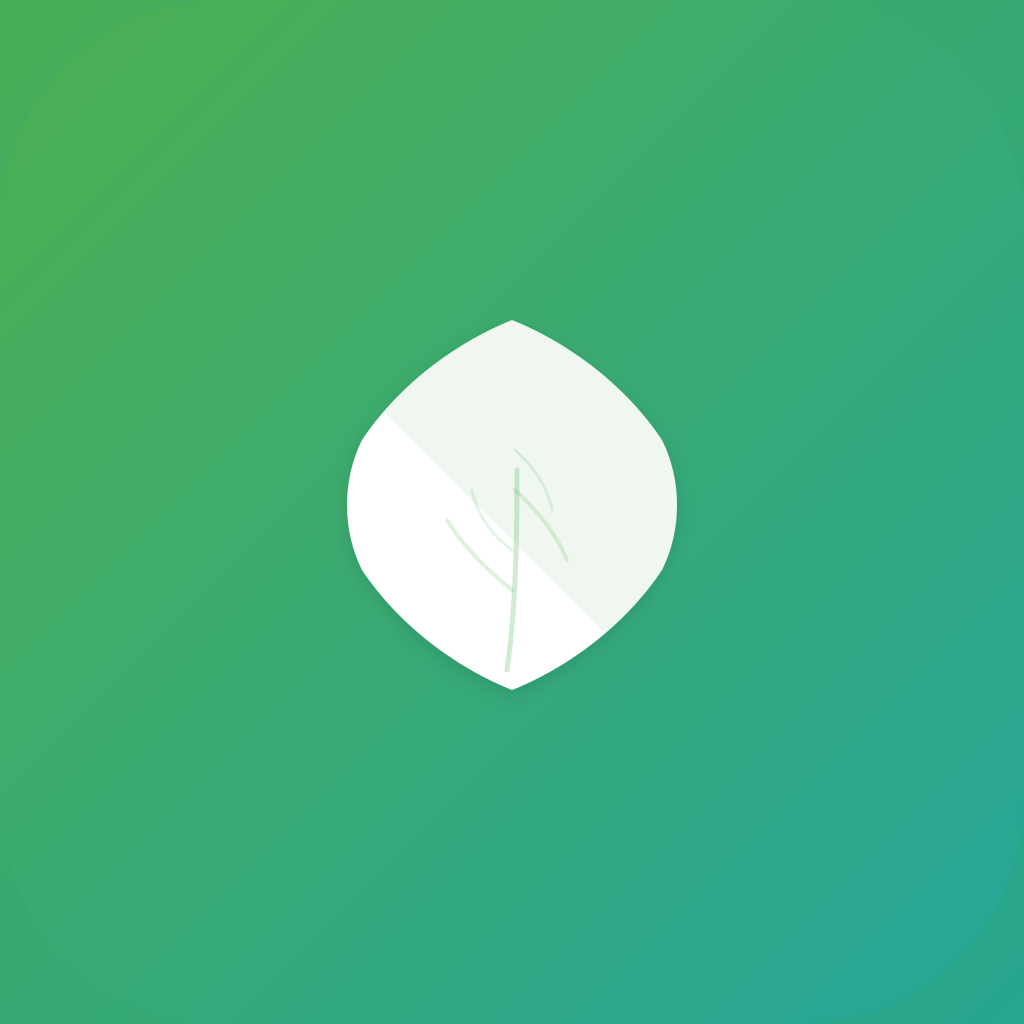
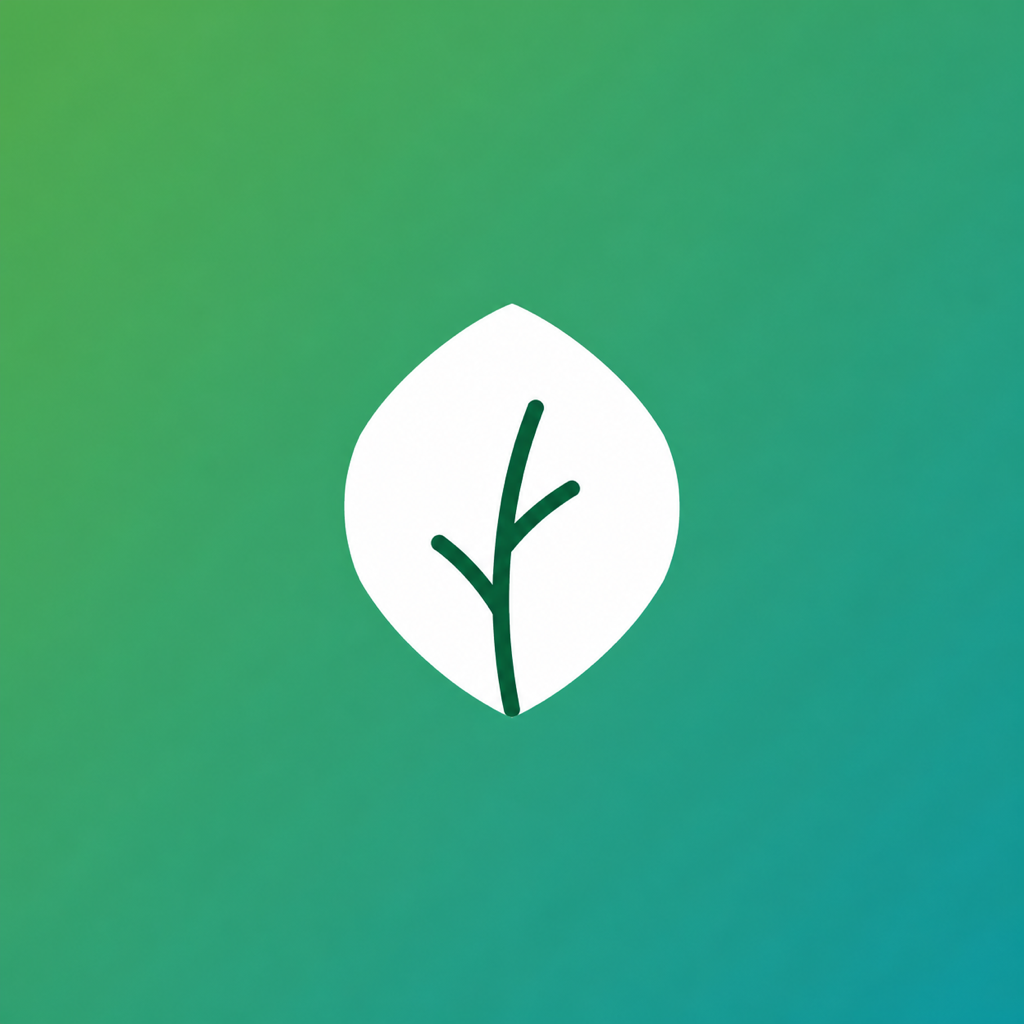
Add planned membership card and align official iOS branding

diff --git a/privacy/index.html b/privacy/index.html
@@ -16,12 +16,12 @@
 <link rel="alternate" hreflang="en" href="https://www.freshlifeapp.cn/en/privacy/"/>
 <link rel="alternate" hreflang="x-default" href="https://www.freshlifeapp.cn/privacy/"/>
 <!-- 浏览器、Safari 与主屏幕统一使用当前 FreshLife App 图标；新文件名也可避开旧 favicon 缓存。 -->
-<link rel="icon" type="image/png" sizes="64x64" href="/favicon-64.png"/>
-<link rel="icon" type="image/x-icon" href="/favicon.ico"/>
-<link rel="apple-touch-icon" sizes="180x180" href="/apple-touch-icon.png"/>
+<link rel="icon" type="image/png" href="/app-icon.png"/>
+
+<link rel="apple-touch-icon" href="/app-icon.png"/>
 <script>/* 主题初始化：先读用户选择，没有则跟随系统；在 CSS 之前执行避免闪动 */
 try{(function(){var d=document.documentElement;d.classList.add("js");var k="freshlife-theme";var saved=null;try{saved=localStorage.getItem(k)}catch(e){}var m=window.matchMedia("(prefers-color-scheme: dark)");var t=(saved==="light"||saved==="dark")?saved:(m.matches?"dark":"light");d.setAttribute("data-theme",t);window.__freshThemeSystem=m.matches?"dark":"light"})()}catch(e){}</script>
-<link rel="stylesheet" href="/assets/main-a55a62aa8b.css"/>
+<link rel="stylesheet" href="/assets/main-c586095d3d.css"/>
 </head>
 <body>
 
@@ -44,8 +44,25 @@ try{(function(){var d=document.documentElement;d.classList.add("js");var k="fres
     <article class="legal-page">
       <p class="kicker">隐私政策 · Privacy</p>
 <h1>隐私政策</h1>
-<p class="legal-note">请选择你使用的平台：<a href="#android">安卓 1.0.0</a> · <a href="#ios">iOS 1.0.0</a>。不同平台功能及数据处理范围不同。</p>
-<h2 id="android">安卓版 1.0.0 隐私政策</h2><h3>适用范围与运营者</h3><p>本政策适用于闵启航开发并提供的 FreshLife 安卓版 1.0.0（包名 cn.minqihang.freshlife）。本版本用于离线管理食材库存、购物清单和本地临期提醒，无注册登录、云同步、社区、付费会员、广告或在线 AI。更新及生效日期：2026年9月7日。</p><h3>本地处理的数据</h3><p>你主动录入的食材名称、数量、单位、存放位置、到期日、购物项和购买状态，以及提醒开关，仅保存在本机应用存储中，用于库存显示、临期计算、用量记录和购物入库。应用不申请联网权限，不向开发者或第三方服务器发送这些数据，不收集设备标识符、通讯录、位置、照片、麦克风或浏览记录。请勿在食材名称中填写身份证号等无关敏感信息。</p><h3>权限与系统能力</h3><p>通知权限仅在你点击“开启提醒”后申请，用于发送本地临期汇总。拒绝通知权限不影响库存与购物功能，你可随时在“我的”或系统设置中关闭。应用接收设备启动、时间与时区变化的系统广播，用于恢复已有提醒计划，不读取启动时其他应用的信息。提醒大约在本地时间上午9点送达，系统省电限制可能使其延迟。通知可能在锁屏显示食材统计，可在系统设置中控制展示方式。</p><h3>备份、恢复与删除</h3><p>导出时，应用通过系统文件选择器将库存和购物数据写入你指定的位置；恢复时，仅读取你主动选择的 FreshLife 安卓 JSON 备份。应用不申请读取全部文件的权限。若你选择第三方云盘保存，文件由你所选服务处理，其隐私政策另行适用。备份为可读文本，请妥善保管。“我的”中的“清除本地数据”会在确认后删除本机库存、购物记录并关闭提醒；也可逐条编辑或删除记录。卸载或系统清除应用数据会移除应用本地记录。你另行保存的备份不会自动删除，请在保存位置自行删除。本版本没有账号，因此无需账号注销。</p><h3>共享、安全与保存期限</h3><p>应用不嵌入广告、统计、支付或社交第三方 SDK，不出售、共享或向境外传输应用数据，不使用 Cookie 或跟踪技术。记录保留在设备中，直到你删除、清除数据或卸载；无开发者云端副本。系统应用沙箱限制其他应用访问，自动系统云备份与设备迁移备份已禁用。请保护设备解锁凭据，及时导出需要保留的记录。数据丢失后开发者无法从服务器找回。</p><h3 id="android-rights">你的权利与联系方式</h3><p>你可在应用中查看、更正、删除记录，导出或恢复备份，并撤回通知权限。关于隐私、数据处理或产品问题，请联系运营者闵启航：Minqihang0119@163.com。请提供问题说明及应用版本，避免发送身份证号、密码或不必要的库存内容。如你主动发邮件，邮件地址及你提供的内容将被用于处理咨询，邮件服务由相应服务商提供。本应用不会自动发送邮件。我们会在收到请求后15个工作日内回复处理情况。</p><h3>未成年人</h3><p>本应用面向日常家庭食材管理，不针对未成年人收集个人信息。不满14周岁的用户请在监护人指导下使用，避免录入无关个人信息。监护人可以协助查看、删除记录或联系我们。</p><h3>政策更新</h3><p>未来如增加联网、账号或其他改变数据处理方式的功能，将先更新政策并在应用内告知；需要另行同意或授权时会单独征求。你可随时在“我的”中离线查阅当前版本政策。本政策仅描述本版本已提供的能力。</p>
+<p class="legal-note">请选择你使用的平台：<a href="#android">安卓 1.0.1</a> · <a href="#ios">iOS 1.0.0</a>。不同平台功能及数据处理范围不同。</p>
+<h2 id="android">安卓版 1.0.1 隐私政策</h2>
+<p>适用版本：安卓 1.0.1。运营者：闵启航。更新及生效日期：2026年9月9日。</p>
+<h3>本地处理与用途</h3>
+<p>本版本为离线应用，不申请联网权限，无账号登录、云同步、社区、会员、广告、统计SDK或在线AI服务。你录入的库存、购物、操作历史、家庭设置、用量记忆、提醒设置仅保存在本机，用于库存管理、购物入库、临期提醒及基于已确认记录的用量估算。估算不自动扣除库存或下单，也不用于诊断或医疗建议。</p>
+<p><strong>家庭设置中自愿填写的过敏原属于健康相关敏感信息，只在本机保存，用于记录家庭饮食限制。非必填，不填不影响库存和购物功能；填写他人信息前应取得其同意。</strong>本版本不向开发者或第三方服务器上传业务数据。请勿填写身份证号等无关信息。</p>
+<h3>个人信息处理清单</h3>
+<p>库存与购物：食品名称、数量、单位、位置、日期和购买状态，用于库存与购物管理。操作记录：你确认的消耗、丢弃、购买、入库和修改，用于历史和用量估算。家庭设置：称呼、用餐状态、饮食限制、烹饪时间与设备，用于本地家庭记录。用量记忆：由已确认记录形成的观察及隐藏选择，可在“我的—本地用量记忆”查看和隐藏。提醒开关：用于发送本地临期汇总。上述内容由你主动录入或操作产生。</p>
+<h3>第三方共享清单</h3>
+<p>本版本无第三方广告、统计、支付、社交SDK，不主动向第三方共享个人信息。你主动导出备份时，文件交由系统文件选择器选定的存储服务保存；若选第三方云盘，其服务商按自己的政策处理文件。主动通过邮箱咨询时，你发送的内容由邮件服务商处理，用于处理咨询，应用不会自动发送邮件。</p>
+<h3>权限、提醒与安全</h3>
+<p>通知权限仅在点击“开启提醒”后申请，拒绝不影响其他功能；可在应用或系统设置关闭。接收开机、时间和时区变化广播，仅恢复你已开启的提醒，通常在本地上午9点发送临期汇总，省电限制可能造成延迟。锁屏显示可在系统设置控制。应用不读取通讯录、位置、广告标识、相机、麦克风或全部文件。系统自动云备份和迁移备份禁用。</p>
+<h3>备份、删除和保存期限</h3>
+<p>导出与恢复仅访问系统选择器中你选定的文件。备份为可读JSON，包含库存、购物、操作历史、家庭设置、用量记忆及恢复文件中已有的记录，请妥善保管。“我的”可导出备份、逐条修改或删除、清除本地数据；清除会关闭提醒。本机数据保留至你主动删除、系统清除应用数据或卸载，未备份的数据无法找回。你另存的备份不会随卸载或清除而删除，请自行处理。本版本无账号，无需账号注销。</p>
+<h3 id="android-rights">同意与撤回</h3>
+<p>首次使用展示本政策，可阅读全文并明确同意或拒绝。“我的—隐私政策—撤回隐私同意”可停止使用并关闭提醒，不会自动删除已有数据。再次使用需重新同意。非必要权限可独立撤回。涉及新增个人信息处理方式时，将更新政策并在需要时重新征求同意。</p>
+<h3>未成年人和联系方式</h3>
+<p>本应用不以儿童为目标用户。不满14周岁的用户请在监护人指导下使用，不要录入儿童个人信息。隐私咨询、更正或删除协助请联系闵启航：Minqihang0119@163.com。请仅提供必要的问题描述与版本，避免发送身份证号、密码或家庭敏感资料。我们将在收到请求后15个工作日内回复处理情况。</p>
+
 <h2 id="ios">iOS 1.0.0 隐私政策</h2>
 <p class="intro">FreshLife 相信，属于你家的日常，不必离开你的设备。这份政策想用尽量简单的话说清楚：哪些数据留在你的设备上、什么时候才会联网、以及你随时能做什么。</p>
 <div class="legal-meta"><span>最后更新：2026 年 8 月</span><span>适用于 FreshLife iOS App（当前版本 1.0.0）</span></div>

diff --git a/site/content/privacy.html b/site/content/privacy.html
@@ -1,7 +1,24 @@
 <p class="kicker">隐私政策 · Privacy</p>
 <h1>隐私政策</h1>
-<p class="legal-note">请选择你使用的平台：<a href="#android">安卓 1.0.0</a> · <a href="#ios">iOS 1.0.0</a>。不同平台功能及数据处理范围不同。</p>
-<h2 id="android">安卓版 1.0.0 隐私政策</h2><h3>适用范围与运营者</h3><p>本政策适用于闵启航开发并提供的 FreshLife 安卓版 1.0.0（包名 cn.minqihang.freshlife）。本版本用于离线管理食材库存、购物清单和本地临期提醒，无注册登录、云同步、社区、付费会员、广告或在线 AI。更新及生效日期：2026年9月7日。</p><h3>本地处理的数据</h3><p>你主动录入的食材名称、数量、单位、存放位置、到期日、购物项和购买状态，以及提醒开关，仅保存在本机应用存储中，用于库存显示、临期计算、用量记录和购物入库。应用不申请联网权限，不向开发者或第三方服务器发送这些数据，不收集设备标识符、通讯录、位置、照片、麦克风或浏览记录。请勿在食材名称中填写身份证号等无关敏感信息。</p><h3>权限与系统能力</h3><p>通知权限仅在你点击“开启提醒”后申请，用于发送本地临期汇总。拒绝通知权限不影响库存与购物功能，你可随时在“我的”或系统设置中关闭。应用接收设备启动、时间与时区变化的系统广播，用于恢复已有提醒计划，不读取启动时其他应用的信息。提醒大约在本地时间上午9点送达，系统省电限制可能使其延迟。通知可能在锁屏显示食材统计，可在系统设置中控制展示方式。</p><h3>备份、恢复与删除</h3><p>导出时，应用通过系统文件选择器将库存和购物数据写入你指定的位置；恢复时，仅读取你主动选择的 FreshLife 安卓 JSON 备份。应用不申请读取全部文件的权限。若你选择第三方云盘保存，文件由你所选服务处理，其隐私政策另行适用。备份为可读文本，请妥善保管。“我的”中的“清除本地数据”会在确认后删除本机库存、购物记录并关闭提醒；也可逐条编辑或删除记录。卸载或系统清除应用数据会移除应用本地记录。你另行保存的备份不会自动删除，请在保存位置自行删除。本版本没有账号，因此无需账号注销。</p><h3>共享、安全与保存期限</h3><p>应用不嵌入广告、统计、支付或社交第三方 SDK，不出售、共享或向境外传输应用数据，不使用 Cookie 或跟踪技术。记录保留在设备中，直到你删除、清除数据或卸载；无开发者云端副本。系统应用沙箱限制其他应用访问，自动系统云备份与设备迁移备份已禁用。请保护设备解锁凭据，及时导出需要保留的记录。数据丢失后开发者无法从服务器找回。</p><h3 id="android-rights">你的权利与联系方式</h3><p>你可在应用中查看、更正、删除记录，导出或恢复备份，并撤回通知权限。关于隐私、数据处理或产品问题，请联系运营者闵启航：Minqihang0119@163.com。请提供问题说明及应用版本，避免发送身份证号、密码或不必要的库存内容。如你主动发邮件，邮件地址及你提供的内容将被用于处理咨询，邮件服务由相应服务商提供。本应用不会自动发送邮件。我们会在收到请求后15个工作日内回复处理情况。</p><h3>未成年人</h3><p>本应用面向日常家庭食材管理，不针对未成年人收集个人信息。不满14周岁的用户请在监护人指导下使用，避免录入无关个人信息。监护人可以协助查看、删除记录或联系我们。</p><h3>政策更新</h3><p>未来如增加联网、账号或其他改变数据处理方式的功能，将先更新政策并在应用内告知；需要另行同意或授权时会单独征求。你可随时在“我的”中离线查阅当前版本政策。本政策仅描述本版本已提供的能力。</p>
+<p class="legal-note">请选择你使用的平台：<a href="#android">安卓 1.0.1</a> · <a href="#ios">iOS 1.0.0</a>。不同平台功能及数据处理范围不同。</p>
+<h2 id="android">安卓版 1.0.1 隐私政策</h2>
+<p>适用版本：安卓 1.0.1。运营者：闵启航。更新及生效日期：2026年9月9日。</p>
+<h3>本地处理与用途</h3>
+<p>本版本为离线应用，不申请联网权限，无账号登录、云同步、社区、会员、广告、统计SDK或在线AI服务。你录入的库存、购物、操作历史、家庭设置、用量记忆、提醒设置仅保存在本机，用于库存管理、购物入库、临期提醒及基于已确认记录的用量估算。估算不自动扣除库存或下单，也不用于诊断或医疗建议。</p>
+<p><strong>家庭设置中自愿填写的过敏原属于健康相关敏感信息，只在本机保存，用于记录家庭饮食限制。非必填，不填不影响库存和购物功能；填写他人信息前应取得其同意。</strong>本版本不向开发者或第三方服务器上传业务数据。请勿填写身份证号等无关信息。</p>
+<h3>个人信息处理清单</h3>
+<p>库存与购物：食品名称、数量、单位、位置、日期和购买状态，用于库存与购物管理。操作记录：你确认的消耗、丢弃、购买、入库和修改，用于历史和用量估算。家庭设置：称呼、用餐状态、饮食限制、烹饪时间与设备，用于本地家庭记录。用量记忆：由已确认记录形成的观察及隐藏选择，可在“我的—本地用量记忆”查看和隐藏。提醒开关：用于发送本地临期汇总。上述内容由你主动录入或操作产生。</p>
+<h3>第三方共享清单</h3>
+<p>本版本无第三方广告、统计、支付、社交SDK，不主动向第三方共享个人信息。你主动导出备份时，文件交由系统文件选择器选定的存储服务保存；若选第三方云盘，其服务商按自己的政策处理文件。主动通过邮箱咨询时，你发送的内容由邮件服务商处理，用于处理咨询，应用不会自动发送邮件。</p>
+<h3>权限、提醒与安全</h3>
+<p>通知权限仅在点击“开启提醒”后申请，拒绝不影响其他功能；可在应用或系统设置关闭。接收开机、时间和时区变化广播，仅恢复你已开启的提醒，通常在本地上午9点发送临期汇总，省电限制可能造成延迟。锁屏显示可在系统设置控制。应用不读取通讯录、位置、广告标识、相机、麦克风或全部文件。系统自动云备份和迁移备份禁用。</p>
+<h3>备份、删除和保存期限</h3>
+<p>导出与恢复仅访问系统选择器中你选定的文件。备份为可读JSON，包含库存、购物、操作历史、家庭设置、用量记忆及恢复文件中已有的记录，请妥善保管。“我的”可导出备份、逐条修改或删除、清除本地数据；清除会关闭提醒。本机数据保留至你主动删除、系统清除应用数据或卸载，未备份的数据无法找回。你另存的备份不会随卸载或清除而删除，请自行处理。本版本无账号，无需账号注销。</p>
+<h3 id="android-rights">同意与撤回</h3>
+<p>首次使用展示本政策，可阅读全文并明确同意或拒绝。“我的—隐私政策—撤回隐私同意”可停止使用并关闭提醒，不会自动删除已有数据。再次使用需重新同意。非必要权限可独立撤回。涉及新增个人信息处理方式时，将更新政策并在需要时重新征求同意。</p>
+<h3>未成年人和联系方式</h3>
+<p>本应用不以儿童为目标用户。不满14周岁的用户请在监护人指导下使用，不要录入儿童个人信息。隐私咨询、更正或删除协助请联系闵启航：Minqihang0119@163.com。请仅提供必要的问题描述与版本，避免发送身份证号、密码或家庭敏感资料。我们将在收到请求后15个工作日内回复处理情况。</p>
+
 <h2 id="ios">iOS 1.0.0 隐私政策</h2>
 <p class="intro">FreshLife 相信，属于你家的日常，不必离开你的设备。这份政策想用尽量简单的话说清楚：哪些数据留在你的设备上、什么时候才会联网、以及你随时能做什么。</p>
 <div class="legal-meta"><span>最后更新：2026 年 8 月</span><span>适用于 FreshLife iOS App（当前版本 1.0.0）</span></div>

diff --git a/en/index.html b/en/index.html
@@ -28,12 +28,12 @@
 <link rel="alternate" hreflang="en" href="https://www.freshlifeapp.cn/en/"/>
 <link rel="alternate" hreflang="x-default" href="https://www.freshlifeapp.cn/"/>
 <!-- 浏览器、Safari 与主屏幕统一使用当前 FreshLife App 图标；新文件名也可避开旧 favicon 缓存。 -->
-<link rel="icon" type="image/png" sizes="64x64" href="/favicon-64.png"/>
-<link rel="icon" type="image/x-icon" href="/favicon.ico"/>
-<link rel="apple-touch-icon" sizes="180x180" href="/apple-touch-icon.png"/>
+<link rel="icon" type="image/png" href="/app-icon.png"/>
+
+<link rel="apple-touch-icon" href="/app-icon.png"/>
 <script>/* 主题初始化：先读用户选择，没有则跟随系统；在 CSS 之前执行避免闪动 */
 try{(function(){var d=document.documentElement;d.classList.add("js");var k="freshlife-theme";var saved=null;try{saved=localStorage.getItem(k)}catch(e){}var m=window.matchMedia("(prefers-color-scheme: dark)");var t=(saved==="light"||saved==="dark")?saved:(m.matches?"dark":"light");d.setAttribute("data-theme",t);window.__freshThemeSystem=m.matches?"dark":"light"})()}catch(e){}</script>
-<link rel="stylesheet" href="/assets/main-a55a62aa8b.css"/>
+<link rel="stylesheet" href="/assets/main-c586095d3d.css"/>
 </head>
 <body>
 
@@ -104,7 +104,7 @@ try{(function(){var d=document.documentElement;d.classList.add("js");var k="fres
         <span>AI offers <b>suggestions only</b></span>
       </div>
       <p class="hero-status">FreshLife is getting ready for the App Store</p>
-<p class="hero-status">Android 1.0.0 is preparing for release. <a href="/support/#android">Android features and support (Chinese)</a>. Product demonstrations below show the iPhone and iPad version.</p>
+<p class="hero-status">Android 1.0.1 has been submitted for Huawei review and is not publicly released yet. <a href="/support/#android">Android features and support (Chinese)</a>. Product demonstrations below show the iPhone and iPad version.</p>
     </div>
   </section>
 
@@ -177,6 +177,7 @@ try{(function(){var d=document.documentElement;d.classList.add("js");var k="fres
   </section>
 
   <!-- ================= Story: from fridge to table ================= -->
+  <section class="section section--alt" id="membership"><div class="container member-layout"><div><p class="eyebrow">FreshLife Membership · Planned</p><h2>One card.<br/>A future connection to your shopping.</h2><p class="lead">We plan to offer a free membership card in FreshLife, with support for Apple Wallet. A future FreshLife store and participating local shops would recognize the same membership.</p><ul class="member-benefits"><li><strong>Shopping points</strong><span>Planned rewards for eligible completed orders.</span></li><li><strong>Selected coupons</strong><span>Planned points redemption, with clear eligibility and expiry dates.</span></li><li><strong>Selected member prices</strong><span>Offer terms and the final price shown before checkout.</span></li></ul><p class="member-note">Cards, rewards, the online store and in-store transactions are not available yet. No stored-value balance is offered. Final benefits and participating shops will be announced before launch.</p></div><div class="member-preview"><div class="member-pass" aria-label="Membership card concept, not issued"><div class="member-pass-top"><span><img src="/app-icon.png" width="42" height="42" alt=""/>FreshLife</span><span>Member card</span></div><h3>Freshness, every day.</h3><p>Choose with care. Enjoy the everyday.</p><div class="member-pass-fields"><div><span>Membership</span><strong>Planned</strong></div><div><span>Card status</span><strong>Not issued</strong></div></div></div><p class="member-caption">Design concept · Not a payment card</p><p class="member-note">The card would identify membership and eligible benefits. Payment is separate. Adding a card to Apple Wallet is not available yet.</p></div></div></section>
   <section class="section story" id="story" aria-label="From fridge to table">
     <div class="container">
       <div class="section-head reveal">
@@ -1008,6 +1009,7 @@ try{(function(){var d=document.documentElement;d.classList.add("js");var k="fres
 <a href="/en/#ai">FreshLife AI</a>
 <a href="/en/philosophy/">Our philosophy</a>
 <a href="/en/#download">Launch status</a>
+<a href="/en/#membership">Membership</a>
       </div>
       <div class="footer-col">
         <h4>Support</h4>

diff --git a/index.html b/index.html
@@ -28,12 +28,12 @@
 <link rel="alternate" hreflang="en" href="https://www.freshlifeapp.cn/en/"/>
 <link rel="alternate" hreflang="x-default" href="https://www.freshlifeapp.cn/"/>
 <!-- 浏览器、Safari 与主屏幕统一使用当前 FreshLife App 图标；新文件名也可避开旧 favicon 缓存。 -->
-<link rel="icon" type="image/png" sizes="64x64" href="/favicon-64.png"/>
-<link rel="icon" type="image/x-icon" href="/favicon.ico"/>
-<link rel="apple-touch-icon" sizes="180x180" href="/apple-touch-icon.png"/>
+<link rel="icon" type="image/png" href="/app-icon.png"/>
+
+<link rel="apple-touch-icon" href="/app-icon.png"/>
 <script>/* 主题初始化：先读用户选择，没有则跟随系统；在 CSS 之前执行避免闪动 */
 try{(function(){var d=document.documentElement;d.classList.add("js");var k="freshlife-theme";var saved=null;try{saved=localStorage.getItem(k)}catch(e){}var m=window.matchMedia("(prefers-color-scheme: dark)");var t=(saved==="light"||saved==="dark")?saved:(m.matches?"dark":"light");d.setAttribute("data-theme",t);window.__freshThemeSystem=m.matches?"dark":"light"})()}catch(e){}</script>
-<link rel="stylesheet" href="/assets/main-a55a62aa8b.css"/>
+<link rel="stylesheet" href="/assets/main-c586095d3d.css"/>
 </head>
 <body>
 
@@ -104,7 +104,7 @@ try{(function(){var d=document.documentElement;d.classList.add("js");var k="fres
         <span>AI 只做<b>辅助建议</b></span>
       </div>
       <p class="hero-status">App Store 上架准备中</p>
-<p class="hero-status">安卓 1.0.0 上架准备中 · <a href="/support/#android">查看安卓功能与支持</a>。本页下方产品演示适用于 iPhone 与 iPad。</p>
+<p class="hero-status">安卓 1.0.1 已提交华为审核，尚未公开上架 · <a href="/support/#android">查看安卓功能与支持</a>。本页下方产品演示适用于 iPhone 与 iPad。</p>
     </div>
   </section>
 
@@ -180,6 +180,7 @@ try{(function(){var d=document.documentElement;d.classList.add("js");var k="fres
        桌面：sticky 产品舞台 + 四个章节，内容随滚动交叉淡入；
        小屏 / 无 JS / 开启「减少动态效果」时退化为顺序故事卡片，
        所有文案始终在文档流中可见、顺序合理。 -->
+  <section class="section section--alt" id="membership"><div class="container member-layout"><div><p class="eyebrow">FreshLife Membership · 筹备中</p><h2>一张卡，<br/>连接未来的购物体验。</h2><p class="lead">计划推出免费普通会员卡，在 App 内查看，并支持添加到 Apple 钱包。未来在 FreshLife 商城关联会员，也可在已接入的线下门店出示会员码。</p><ul class="member-benefits"><li><strong>购物积分</strong><span>符合条件的订单完成后，计划累积积分。</span></li><li><strong>指定优惠券</strong><span>计划使用积分兑换，适用范围和期限提前说明。</span></li><li><strong>指定商品会员价</strong><span>活动价格和使用条件在结算前清楚展示。</span></li></ul><p class="member-note">尚未开放领卡、积分兑换、商城或门店消费。不提供充值余额；具体权益和合作门店以正式上线公告为准。</p></div><div class="member-preview"><div class="member-pass" aria-label="会员卡设计示意，尚未发行"><div class="member-pass-top"><span><img src="/app-icon.png" width="42" height="42" alt=""/>FreshLife</span><span>会员卡</span></div><h3>让新鲜成为日常</h3><p>用心选购，认真生活。</p><div class="member-pass-fields"><div><span>会员服务</span><strong>筹备中</strong></div><div><span>发卡状态</span><strong>尚未发行</strong></div></div></div><p class="member-caption">卡片设计示意 · 非支付卡</p><p class="member-note">会员卡用于识别身份和使用权益，付款另行完成。Apple 钱包添加功能尚未启用。</p></div></div></section>
   <section class="section story" id="story" aria-label="从放进冰箱，到端上餐桌">
     <div class="container">
       <div class="section-head reveal">
@@ -1011,6 +1012,7 @@ try{(function(){var d=document.documentElement;d.classList.add("js");var k="fres
 <a href="/#ai">FreshLife AI</a>
 <a href="/philosophy/">我们的理念</a>
 <a href="/#download">上线状态</a>
+<a href="/#membership">会员卡</a>
       </div>
       <div class="footer-col">
         <h4>支持</h4>

diff --git a/support/index.html b/support/index.html
@@ -16,12 +16,12 @@
 <link rel="alternate" hreflang="en" href="https://www.freshlifeapp.cn/en/support/"/>
 <link rel="alternate" hreflang="x-default" href="https://www.freshlifeapp.cn/support/"/>
 <!-- 浏览器、Safari 与主屏幕统一使用当前 FreshLife App 图标；新文件名也可避开旧 favicon 缓存。 -->
-<link rel="icon" type="image/png" sizes="64x64" href="/favicon-64.png"/>
-<link rel="icon" type="image/x-icon" href="/favicon.ico"/>
-<link rel="apple-touch-icon" sizes="180x180" href="/apple-touch-icon.png"/>
+<link rel="icon" type="image/png" href="/app-icon.png"/>
+
+<link rel="apple-touch-icon" href="/app-icon.png"/>
 <script>/* 主题初始化：先读用户选择，没有则跟随系统；在 CSS 之前执行避免闪动 */
 try{(function(){var d=document.documentElement;d.classList.add("js");var k="freshlife-theme";var saved=null;try{saved=localStorage.getItem(k)}catch(e){}var m=window.matchMedia("(prefers-color-scheme: dark)");var t=(saved==="light"||saved==="dark")?saved:(m.matches?"dark":"light");d.setAttribute("data-theme",t);window.__freshThemeSystem=m.matches?"dark":"light"})()}catch(e){}</script>
-<link rel="stylesheet" href="/assets/main-a55a62aa8b.css"/>
+<link rel="stylesheet" href="/assets/main-c586095d3d.css"/>
 </head>
 <body>
 
@@ -45,11 +45,12 @@ try{(function(){var d=document.documentElement;d.classList.add("js");var k="fres
       <p class="kicker">帮助中心 · Support</p>
 <h1>帮助中心</h1>
 <p class="legal-note">联系开发者闵启航：<a href="mailto:Minqihang0119@163.com">Minqihang0119@163.com</a>。来信请注明平台、应用版本和问题，避免发送密码或身份证等敏感信息。</p>
-<h2 id="android">安卓版 1.0.0</h2>
-<p>安卓首发版正在上架准备中，免费、无需注册，支持离线库存、三天内临期与过期筛选、用量记录、购物清单及购买入库。暂不提供账号、会员、社区、拍照识别或 AI 餐食建议。</p>
+<h2 id="android">安卓版 1.0.1</h2>
+<p>安卓 1.0.1 已提交华为审核，尚未公开上架。免费、无需注册，支持离线库存、两天内临期与过期筛选、消耗和丢弃记录、购物清单及购买入库，以及本地家庭设置、用量估算与使用记忆。暂不提供账号、会员、社区、拍照识别或 AI 餐食建议。</p>
 <h3>如何添加与购买入库？</h3><p>添加食材后填写名称、数量、单位、位置和到期日；在库存中编辑或记录用量。在「购物」添加待购物品，标记已买后核对食材信息并确认入库。</p>
 <h3>提醒与数据管理在哪里？</h3><p>在「我的」主动开启通知后，可接收本地临期汇总；系统省电可能延迟提醒。在同一页面导出或恢复安卓 JSON 备份、查看隐私政策或清除本地数据。恢复会替换现有库存与购物数据，请先保存当前备份；清除后无法从服务器找回数据。导出的文件需自行保管或删除。</p>
 <p><a href="/privacy/#android">查看完整安卓隐私政策</a> · <a href="/privacy/#android-rights">数据权利与联系渠道</a></p>
+<h3>可以领取会员卡吗？</h3><p>会员卡、商城和线下权益正在筹备，当前版本尚未提供。<a href="/#membership">查看会员卡介绍</a>。隐私同意可在「我的—隐私政策」撤回，过敏原信息自愿填写并单独确认保存。</p>
 <h2 id="ios">iPhone 与 iPad 使用帮助</h2>
 <p class="intro">从记下第一件食材，到识别结果不太确定时该怎么办，这里整理了 FreshLife 最常见的问题。核心功能都在本机运行，大多数问题在 App 里就能解决。</p>
 

diff --git a/site/templates/index_en.html b/site/templates/index_en.html
@@ -22,7 +22,7 @@
         <span>AI offers <b>suggestions only</b></span>
       </div>
       <p class="hero-status">FreshLife is getting ready for the App Store</p>
-<p class="hero-status">Android 1.0.0 is preparing for release. <a href="/support/#android">Android features and support (Chinese)</a>. Product demonstrations below show the iPhone and iPad version.</p>
+<p class="hero-status">Android 1.0.1 has been submitted for Huawei review and is not publicly released yet. <a href="/support/#android">Android features and support (Chinese)</a>. Product demonstrations below show the iPhone and iPad version.</p>
     </div>
   </section>
 
@@ -86,6 +86,7 @@
   </section>
 
   <!-- ================= Story: from fridge to table ================= -->
+  <section class="section section--alt" id="membership"><div class="container member-layout"><div><p class="eyebrow">FreshLife Membership · Planned</p><h2>One card.<br/>A future connection to your shopping.</h2><p class="lead">We plan to offer a free membership card in FreshLife, with support for Apple Wallet. A future FreshLife store and participating local shops would recognize the same membership.</p><ul class="member-benefits"><li><strong>Shopping points</strong><span>Planned rewards for eligible completed orders.</span></li><li><strong>Selected coupons</strong><span>Planned points redemption, with clear eligibility and expiry dates.</span></li><li><strong>Selected member prices</strong><span>Offer terms and the final price shown before checkout.</span></li></ul><p class="member-note">Cards, rewards, the online store and in-store transactions are not available yet. No stored-value balance is offered. Final benefits and participating shops will be announced before launch.</p></div><div class="member-preview"><div class="member-pass" aria-label="Membership card concept, not issued"><div class="member-pass-top"><span><img src="/app-icon.png" width="42" height="42" alt=""/>FreshLife</span><span>Member card</span></div><h3>Freshness, every day.</h3><p>Choose with care. Enjoy the everyday.</p><div class="member-pass-fields"><div><span>Membership</span><strong>Planned</strong></div><div><span>Card status</span><strong>Not issued</strong></div></div></div><p class="member-caption">Design concept · Not a payment card</p><p class="member-note">The card would identify membership and eligible benefits. Payment is separate. Adding a card to Apple Wallet is not available yet.</p></div></div></section>
   <section class="section story" id="story" aria-label="From fridge to table">
     <div class="container">
       <div class="section-head reveal">

diff --git a/site/templates/index.html b/site/templates/index.html
@@ -22,7 +22,7 @@
         <span>AI 只做<b>辅助建议</b></span>
       </div>
       <p class="hero-status">App Store 上架准备中</p>
-<p class="hero-status">安卓 1.0.0 上架准备中 · <a href="/support/#android">查看安卓功能与支持</a>。本页下方产品演示适用于 iPhone 与 iPad。</p>
+<p class="hero-status">安卓 1.0.1 已提交华为审核，尚未公开上架 · <a href="/support/#android">查看安卓功能与支持</a>。本页下方产品演示适用于 iPhone 与 iPad。</p>
     </div>
   </section>
 
@@ -89,6 +89,7 @@
        桌面：sticky 产品舞台 + 四个章节，内容随滚动交叉淡入；
        小屏 / 无 JS / 开启「减少动态效果」时退化为顺序故事卡片，
        所有文案始终在文档流中可见、顺序合理。 -->
+  <section class="section section--alt" id="membership"><div class="container member-layout"><div><p class="eyebrow">FreshLife Membership · 筹备中</p><h2>一张卡，<br/>连接未来的购物体验。</h2><p class="lead">计划推出免费普通会员卡，在 App 内查看，并支持添加到 Apple 钱包。未来在 FreshLife 商城关联会员，也可在已接入的线下门店出示会员码。</p><ul class="member-benefits"><li><strong>购物积分</strong><span>符合条件的订单完成后，计划累积积分。</span></li><li><strong>指定优惠券</strong><span>计划使用积分兑换，适用范围和期限提前说明。</span></li><li><strong>指定商品会员价</strong><span>活动价格和使用条件在结算前清楚展示。</span></li></ul><p class="member-note">尚未开放领卡、积分兑换、商城或门店消费。不提供充值余额；具体权益和合作门店以正式上线公告为准。</p></div><div class="member-preview"><div class="member-pass" aria-label="会员卡设计示意，尚未发行"><div class="member-pass-top"><span><img src="/app-icon.png" width="42" height="42" alt=""/>FreshLife</span><span>会员卡</span></div><h3>让新鲜成为日常</h3><p>用心选购，认真生活。</p><div class="member-pass-fields"><div><span>会员服务</span><strong>筹备中</strong></div><div><span>发卡状态</span><strong>尚未发行</strong></div></div></div><p class="member-caption">卡片设计示意 · 非支付卡</p><p class="member-note">会员卡用于识别身份和使用权益，付款另行完成。Apple 钱包添加功能尚未启用。</p></div></div></section>
   <section class="section story" id="story" aria-label="从放进冰箱，到端上餐桌">
     <div class="container">
       <div class="section-head reveal">

diff --git a/en/privacy/index.html b/en/privacy/index.html
@@ -16,12 +16,12 @@
 <link rel="alternate" hreflang="en" href="https://www.freshlifeapp.cn/en/privacy/"/>
 <link rel="alternate" hreflang="x-default" href="https://www.freshlifeapp.cn/privacy/"/>
 <!-- 浏览器、Safari 与主屏幕统一使用当前 FreshLife App 图标；新文件名也可避开旧 favicon 缓存。 -->
-<link rel="icon" type="image/png" sizes="64x64" href="/favicon-64.png"/>
-<link rel="icon" type="image/x-icon" href="/favicon.ico"/>
-<link rel="apple-touch-icon" sizes="180x180" href="/apple-touch-icon.png"/>
+<link rel="icon" type="image/png" href="/app-icon.png"/>
+
+<link rel="apple-touch-icon" href="/app-icon.png"/>
 <script>/* 主题初始化：先读用户选择，没有则跟随系统；在 CSS 之前执行避免闪动 */
 try{(function(){var d=document.documentElement;d.classList.add("js");var k="freshlife-theme";var saved=null;try{saved=localStorage.getItem(k)}catch(e){}var m=window.matchMedia("(prefers-color-scheme: dark)");var t=(saved==="light"||saved==="dark")?saved:(m.matches?"dark":"light");d.setAttribute("data-theme",t);window.__freshThemeSystem=m.matches?"dark":"light"})()}catch(e){}</script>
-<link rel="stylesheet" href="/assets/main-a55a62aa8b.css"/>
+<link rel="stylesheet" href="/assets/main-c586095d3d.css"/>
 </head>
 <body>
 
@@ -44,7 +44,7 @@ try{(function(){var d=document.documentElement;d.classList.add("js");var k="fres
     <article class="legal-page">
       <p class="kicker">Privacy · Policy</p>
 <h1>Privacy Policy</h1>
-<p class="legal-note">This page describes the iOS version. For Android 1.0.0, see the <a href="/privacy/#android">Android privacy policy (Chinese)</a> and <a href="/support/#android">Android support guide (Chinese)</a>.</p>
+<p class="legal-note">This page describes the iOS version. For Android 1.0.1, see the <a href="/privacy/#android">Android privacy policy (Chinese)</a> and <a href="/support/#android">Android support guide (Chinese)</a>.</p>
 <p class="intro">FreshLife believes the everyday details of your household don’t need to leave your device. This policy tries to say, in plain language: what stays on your device, when anything ever connects, and what you can do at any time.</p>
 <div class="legal-meta"><span>Last updated: August 2026</span><span>Applies to the FreshLife iOS app (current version 1.0.0)</span></div>
 

diff --git a/site/content/support.html b/site/content/support.html
@@ -1,11 +1,12 @@
 <p class="kicker">帮助中心 · Support</p>
 <h1>帮助中心</h1>
 <p class="legal-note">联系开发者闵启航：<a href="mailto:Minqihang0119@163.com">Minqihang0119@163.com</a>。来信请注明平台、应用版本和问题，避免发送密码或身份证等敏感信息。</p>
-<h2 id="android">安卓版 1.0.0</h2>
-<p>安卓首发版正在上架准备中，免费、无需注册，支持离线库存、三天内临期与过期筛选、用量记录、购物清单及购买入库。暂不提供账号、会员、社区、拍照识别或 AI 餐食建议。</p>
+<h2 id="android">安卓版 1.0.1</h2>
+<p>安卓 1.0.1 已提交华为审核，尚未公开上架。免费、无需注册，支持离线库存、两天内临期与过期筛选、消耗和丢弃记录、购物清单及购买入库，以及本地家庭设置、用量估算与使用记忆。暂不提供账号、会员、社区、拍照识别或 AI 餐食建议。</p>
 <h3>如何添加与购买入库？</h3><p>添加食材后填写名称、数量、单位、位置和到期日；在库存中编辑或记录用量。在「购物」添加待购物品，标记已买后核对食材信息并确认入库。</p>
 <h3>提醒与数据管理在哪里？</h3><p>在「我的」主动开启通知后，可接收本地临期汇总；系统省电可能延迟提醒。在同一页面导出或恢复安卓 JSON 备份、查看隐私政策或清除本地数据。恢复会替换现有库存与购物数据，请先保存当前备份；清除后无法从服务器找回数据。导出的文件需自行保管或删除。</p>
 <p><a href="/privacy/#android">查看完整安卓隐私政策</a> · <a href="/privacy/#android-rights">数据权利与联系渠道</a></p>
+<h3>可以领取会员卡吗？</h3><p>会员卡、商城和线下权益正在筹备，当前版本尚未提供。<a href="/#membership">查看会员卡介绍</a>。隐私同意可在「我的—隐私政策」撤回，过敏原信息自愿填写并单独确认保存。</p>
 <h2 id="ios">iPhone 与 iPad 使用帮助</h2>
 <p class="intro">从记下第一件食材，到识别结果不太确定时该怎么办，这里整理了 FreshLife 最常见的问题。核心功能都在本机运行，大多数问题在 App 里就能解决。</p>
 

diff --git a/en/support/index.html b/en/support/index.html
@@ -16,12 +16,12 @@
 <link rel="alternate" hreflang="en" href="https://www.freshlifeapp.cn/en/support/"/>
 <link rel="alternate" hreflang="x-default" href="https://www.freshlifeapp.cn/support/"/>
 <!-- 浏览器、Safari 与主屏幕统一使用当前 FreshLife App 图标；新文件名也可避开旧 favicon 缓存。 -->
-<link rel="icon" type="image/png" sizes="64x64" href="/favicon-64.png"/>
-<link rel="icon" type="image/x-icon" href="/favicon.ico"/>
-<link rel="apple-touch-icon" sizes="180x180" href="/apple-touch-icon.png"/>
+<link rel="icon" type="image/png" href="/app-icon.png"/>
+
+<link rel="apple-touch-icon" href="/app-icon.png"/>
 <script>/* 主题初始化：先读用户选择，没有则跟随系统；在 CSS 之前执行避免闪动 */
 try{(function(){var d=document.documentElement;d.classList.add("js");var k="freshlife-theme";var saved=null;try{saved=localStorage.getItem(k)}catch(e){}var m=window.matchMedia("(prefers-color-scheme: dark)");var t=(saved==="light"||saved==="dark")?saved:(m.matches?"dark":"light");d.setAttribute("data-theme",t);window.__freshThemeSystem=m.matches?"dark":"light"})()}catch(e){}</script>
-<link rel="stylesheet" href="/assets/main-a55a62aa8b.css"/>
+<link rel="stylesheet" href="/assets/main-c586095d3d.css"/>
 </head>
 <body>
 
@@ -44,7 +44,7 @@ try{(function(){var d=document.documentElement;d.classList.add("js");var k="fres
     <article class="legal-page">
       <p class="kicker">Help Center · Support</p>
 <h1>Help Center</h1>
-<p class="legal-note">This page describes the iOS version. For Android 1.0.0, see the <a href="/privacy/#android">Android privacy policy (Chinese)</a> and <a href="/support/#android">Android support guide (Chinese)</a>.</p>
+<p class="legal-note">This page describes the iOS version. For Android 1.0.1, see the <a href="/privacy/#android">Android privacy policy (Chinese)</a> and <a href="/support/#android">Android support guide (Chinese)</a>.</p>
 <p class="intro">From logging your first item to what to do when a recognition result looks off, here are the questions people ask most about FreshLife. Core features run on your device, so most answers are right there in the app.</p>
 
 <div class="support-grid">

diff --git a/assets/main-c586095d3d.css b/assets/main-c586095d3d.css
@@ -1644,3 +1644,6 @@ html:not(.js) [data-ipad-page="today"] { display: block; }
   .site-header, .site-footer, .mock-tabbar, .nav-toggle, .device-switch, .theme-toggle, .fpage-index { display: none !important; }
   body { background: #fff; color: #000; }
 }
+
+/* Membership concept: preserve the existing site tokens and native app identity. */
+.member-layout{display:grid;grid-template-columns:minmax(0,1.25fr) minmax(0,1fr);align-items:center;gap:64px}.member-benefits{list-style:none;padding:0;margin:24px 0}.member-benefits li{padding:12px 0;border-bottom:1px solid var(--line)}.member-benefits strong{display:block;font-size:16px;color:var(--ink)}.member-benefits span,.member-note{font-size:14px;line-height:1.85;color:var(--ink-2)}.member-pass{padding:24px;border-radius:var(--radius-lg);background:#086e4c;color:#fff;box-shadow:0 16px 42px rgba(7,61,44,.1)}.member-pass-top{display:flex;align-items:center;justify-content:space-between;gap:12px;font-size:14px}.member-pass-top>span:first-child{display:flex;gap:10px;align-items:center;font-size:18px;font-weight:650}.member-pass img{border-radius:10px}.member-pass h3{font-size:clamp(22px,2.5vw,28px);line-height:1.4;color:#fff;margin:34px 0 8px}.member-pass>p{font-size:14px;color:#e2f3e8}.member-pass-fields{display:flex;justify-content:space-between;gap:18px;margin-top:34px}.member-pass-fields span{display:block;font-size:14px;color:#dcefe5}.member-pass-fields strong{display:block;font-size:16px;margin-top:5px;color:white}.member-caption{text-align:center;color:var(--ink-3);font-size:14px;margin:16px 0}.member-preview>.member-note{padding:0 8px}@media(max-width:760px){.member-layout{grid-template-columns:1fr;gap:30px}.member-preview{max-width:440px;width:100%;margin:auto}.member-pass{padding:20px}}

diff --git a/site/styles/main.css b/site/styles/main.css
@@ -1644,3 +1644,6 @@ html:not(.js) [data-ipad-page="today"] { display: block; }
   .site-header, .site-footer, .mock-tabbar, .nav-toggle, .device-switch, .theme-toggle, .fpage-index { display: none !important; }
   body { background: #fff; color: #000; }
 }
+
+/* Membership concept: preserve the existing site tokens and native app identity. */
+.member-layout{display:grid;grid-template-columns:minmax(0,1.25fr) minmax(0,1fr);align-items:center;gap:64px}.member-benefits{list-style:none;padding:0;margin:24px 0}.member-benefits li{padding:12px 0;border-bottom:1px solid var(--line)}.member-benefits strong{display:block;font-size:16px;color:var(--ink)}.member-benefits span,.member-note{font-size:14px;line-height:1.85;color:var(--ink-2)}.member-pass{padding:24px;border-radius:var(--radius-lg);background:#086e4c;color:#fff;box-shadow:0 16px 42px rgba(7,61,44,.1)}.member-pass-top{display:flex;align-items:center;justify-content:space-between;gap:12px;font-size:14px}.member-pass-top>span:first-child{display:flex;gap:10px;align-items:center;font-size:18px;font-weight:650}.member-pass img{border-radius:10px}.member-pass h3{font-size:clamp(22px,2.5vw,28px);line-height:1.4;color:#fff;margin:34px 0 8px}.member-pass>p{font-size:14px;color:#e2f3e8}.member-pass-fields{display:flex;justify-content:space-between;gap:18px;margin-top:34px}.member-pass-fields span{display:block;font-size:14px;color:#dcefe5}.member-pass-fields strong{display:block;font-size:16px;margin-top:5px;color:white}.member-caption{text-align:center;color:var(--ink-3);font-size:14px;margin:16px 0}.member-preview>.member-note{padding:0 8px}@media(max-width:760px){.member-layout{grid-template-columns:1fr;gap:30px}.member-preview{max-width:440px;width:100%;margin:auto}.member-pass{padding:20px}}
